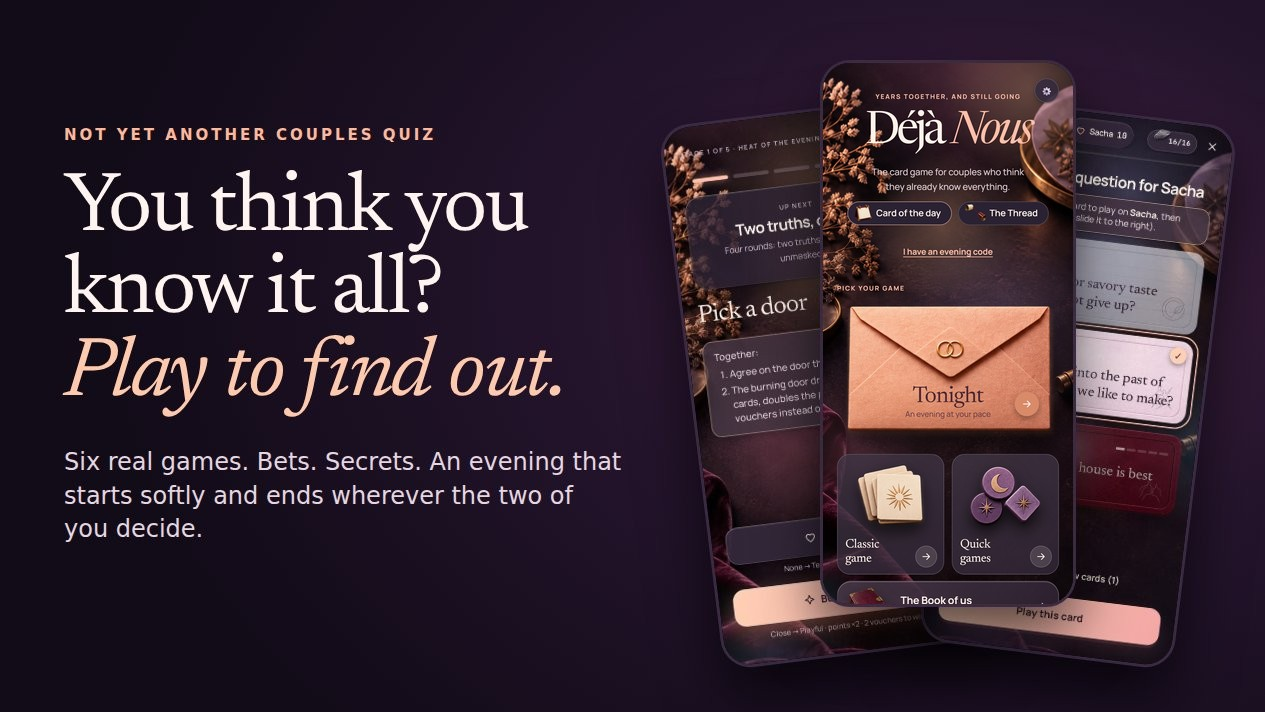
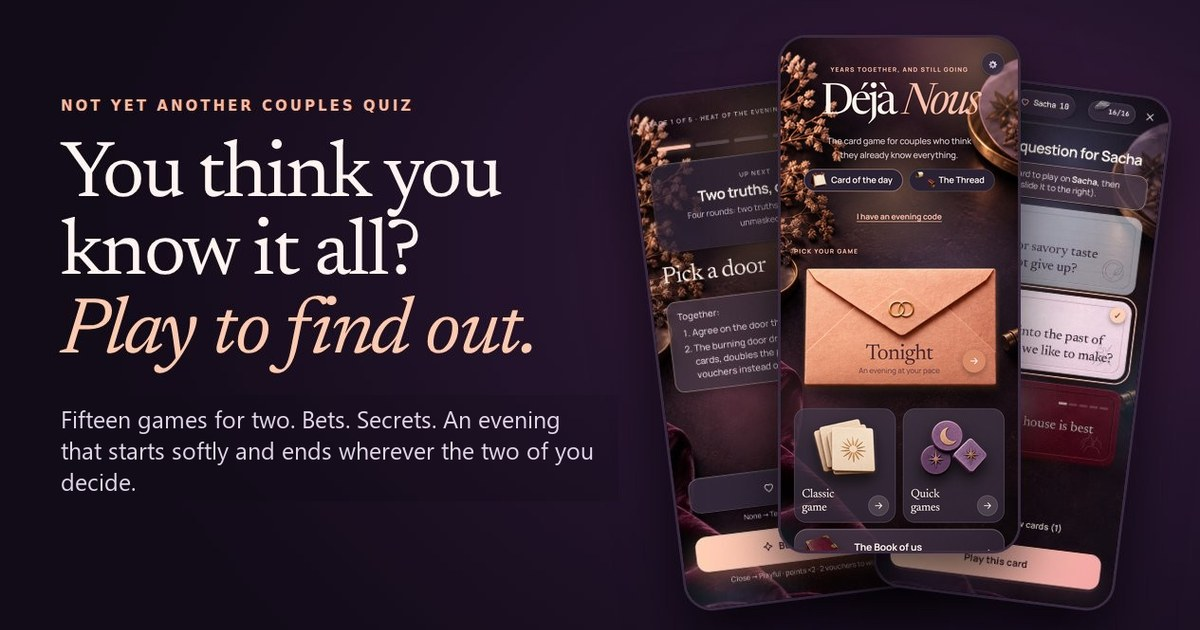
Terms and legal notice: CM2C mediator, VAT not applicable; privacy points confirmed; new 1200x630 share images [skip ci]

diff --git a/docs/privacy.html b/docs/privacy.html
@@ -9,7 +9,7 @@
   <main class="report wrap legal">
     <p class="eyebrow">POLITIQUE DE CONFIDENTIALITÉ</p>
     <h1>Vos réponses<br><em>restent à vous.</em></h1>
-    <p class="legal-meta"><strong>Dernière mise à jour : <span class="ph">[DATE]</span></strong></p>
+    <p class="legal-meta"><strong>Dernière mise à jour : 1<sup>er</sup> novembre 2026</strong></p>
     <p class="report-lede">Déjà Nous est un jeu pour couples (18+). Vos réponses, vos prénoms et votre « Livre de nous » restent sur votre téléphone : nous ne les recevons jamais. Nous traitons seulement ce qu’il faut pour vendre le jeu complet, faire respecter sa licence et vous répondre. Cette page dit quoi, pourquoi, et combien de temps.</p>
 
     <section id="responsable"><h2>Qui est responsable</h2>
@@ -67,7 +67,7 @@
         <dt>But</dt><dd>Conclure et exécuter la vente : livrer le code, vous le renvoyer si vous le perdez (« Retrouver mon code »), traiter un remboursement, une rétractation ou une contestation bancaire.</dd>
         <dt>Base légale</dt><dd>L’exécution du contrat de vente. Ensuite, nos obligations comptables et fiscales.</dd>
         <dt>Données</dt><dd>Adresse e-mail, langue, produit acheté, numéro de la session de paiement et référence du paiement Stripe, code de licence et son identifiant, date de l’achat. Pour un passage depuis l’édition Google Play, si cette offre est proposée : le numéro de commande Google Play, que nous vérifions auprès de Google.</dd>
-        <dt>Durée</dt><dd>10 ans à compter de l’achat <span class="ph">[À CONFIRMER]</span>, la durée de conservation des pièces comptables. La licence n’a pas de date de fin : ces données servent aussi à vous renvoyer votre code pendant cette période.</dd>
+        <dt>Durée</dt><dd>10 ans à compter de l’achat, la durée de conservation des pièces comptables. La licence n’a pas de date de fin : ces données servent aussi à vous renvoyer votre code pendant cette période.</dd>
       </dl>
       <p>La page de paiement est hébergée par Stripe, qui y applique ses propres règles, cookies compris. Stripe traite aussi certaines données pour son propre compte, par exemple contre la fraude, selon sa politique de confidentialité.</p>
     </section>
@@ -82,7 +82,7 @@
         <dt>Données</dt><dd>Pour chaque licence : l’identifiant pseudonyme de chaque téléphone activé (deux au plus) et sa date d’activation, et la date du dernier remplacement de téléphone (un par mois).</dd>
         <dt>Durée</dt><dd>Un téléphone est effacé dès que vous le retirez (« Retirer ») ou le remplacez. Sinon, ses données sont effacées avec celles de la commande. La date du dernier remplacement est effacée après 30 jours.</dd>
       </dl>
-      <p><strong>Codes désactivés.</strong> Quand un code est désactivé (remboursement, contestation bancaire, abus), son identifiant entre dans une liste publique que l’application télécharge au plus toutes les 6 heures. Cet identifiant est un numéro aléatoire de 8 caractères ; la liste ne contient ni e-mail ni autre donnée. Elle est gardée tant que la désactivation doit s’appliquer, et au plus aussi longtemps que les données de la commande <span class="ph">[À CONFIRMER]</span>.</p>
+      <p><strong>Codes désactivés.</strong> Quand un code est désactivé (remboursement, contestation bancaire, abus), son identifiant entre dans une liste publique que l’application télécharge au plus toutes les 6 heures. Cet identifiant est un numéro aléatoire de 8 caractères ; la liste ne contient ni e-mail ni autre donnée. Elle est gardée tant que la désactivation doit s’appliquer, et au plus aussi longtemps que les données de la commande.</p>
       <p><strong>Édition Google Play.</strong> L’achat du jeu complet est géré par Google Play, selon sa propre politique. Pour ouvrir les textes du jeu complet, l’application envoie à notre serveur le jeton d’achat Google Play, et le serveur demande à Google de le confirmer. Nous gardons seulement une empreinte de ce jeton pendant 24 heures, pour ne pas interroger Google à chaque ouverture.</p>
     </section>
 
@@ -98,7 +98,7 @@
         <dt>But</dt><dd>Protéger nos textes contre la copie, faire respecter la licence et défendre nos droits.</dd>
         <dt>Base légale</dt><dd>Notre intérêt légitime à protéger nos œuvres et à lutter contre le piratage, et l’exécution du contrat de licence.</dd>
         <dt>Données</dt><dd>L’identifiant de licence inscrit dans les textes. Nous ne le relions à une commande que lorsqu’un texte diffusé est trouvé.</dd>
-        <dt>Durée</dt><dd>La marque reste dans les textes affichés sur votre téléphone. L’analyse d’un texte diffusé est gardée le temps de la procédure, et jusqu’à la fin d’un éventuel litige <span class="ph">[À CONFIRMER]</span>.</dd>
+        <dt>Durée</dt><dd>La marque reste dans les textes affichés sur votre téléphone. L’analyse d’un texte diffusé est gardée le temps de la procédure, et jusqu’à la fin d’un éventuel litige.</dd>
       </dl>
     </section>
 
@@ -110,7 +110,7 @@
         <dt>Données</dt><dd>Adresse IP ou adresse e-mail, et un nombre de demandes.</dd>
         <dt>Durée</dt><dd>1 heure pour l’adresse IP, 24 heures pour l’adresse e-mail.</dd>
       </dl>
-      <p>Notre serveur n’écrit pas de journal de vos requêtes <span class="ph">[À CONFIRMER]</span>. Cloudflare, qui l’héberge, traite les adresses IP pour acheminer les requêtes et bloquer les attaques, selon sa propre politique.</p>
+      <p>Notre serveur n’écrit pas de journal de vos requêtes. Cloudflare, qui l’héberge, traite les adresses IP pour acheminer les requêtes et bloquer les attaques, selon sa propre politique.</p>
     </section>
 
     <section id="e-mails"><h2>Les e-mails</h2>
@@ -121,7 +121,7 @@
         <dt>But</dt><dd>Livrer le code, répondre à vos questions, réclamations et demandes (rétractation, droits sur vos données).</dd>
         <dt>Base légale</dt><dd>L’exécution du contrat, et notre intérêt légitime à vous répondre.</dd>
         <dt>Données</dt><dd>Votre adresse e-mail, le contenu de nos échanges.</dd>
-        <dt>Durée</dt><dd>3 ans après notre dernier échange <span class="ph">[À CONFIRMER]</span>. Un échange lié à une commande (rétractation, réclamation) est gardé aussi longtemps que la commande.</dd>
+        <dt>Durée</dt><dd>3 ans après notre dernier échange. Un échange lié à une commande (rétractation, réclamation) est gardé aussi longtemps que la commande.</dd>
       </dl>
     </section>
 
@@ -147,7 +147,7 @@
         <li data-shop><strong>GitHub</strong> : téléchargement de l’application, de ses mises à jour et des nouvelles cartes.</li>
         <li><strong>Google</strong> : vente et vérification des achats de l’édition Google Play ; sauvegarde facultative dans votre Google Drive.</li>
       </ul>
-      <p><strong>Transferts hors de l’Union européenne.</strong> Ces prestataires sont établis aux États-Unis ou y traitent des données. Ces transferts sont encadrés par les garanties prévues par le RGPD : le cadre de protection des données UE–États-Unis quand le prestataire y adhère, ou les clauses contractuelles types de la Commission européenne <span class="ph">[À CONFIRMER]</span>. Vous pouvez nous demander lesquelles s’appliquent.</p>
+      <p><strong>Transferts hors de l’Union européenne.</strong> Ces prestataires sont établis aux États-Unis ou y traitent des données. Ces transferts sont encadrés par les garanties prévues par le RGPD : le cadre de protection des données UE–États-Unis quand le prestataire y adhère, ou les clauses contractuelles types de la Commission européenne. Vous pouvez nous demander lesquelles s’appliquent.</p>
       <p>Nous ne communiquons vos données à une autorité que si la loi nous y oblige.</p>
     </section>
 

diff --git a/docs/privacy-en.html b/docs/privacy-en.html
@@ -9,7 +9,7 @@
   <main class="report wrap legal">
     <p class="eyebrow">PRIVACY POLICY</p>
     <h1>Your answers<br><em>stay yours.</em></h1>
-    <p class="legal-meta"><strong>Last updated: <span class="ph">[DATE]</span></strong></p>
+    <p class="legal-meta"><strong>Last updated: November 1, 2026</strong></p>
     <p class="prevails">This is a translation for your convenience. The <a href="privacy.html" lang="fr">French version</a> prevails.</p>
     <p class="report-lede">Déjà Nous is a game for couples (18+). Your answers, your first names and your “Book of us” stay on your phone: we never receive them. We only process what is needed to sell the full game, enforce its license and answer you. This page says what, why, and for how long.</p>
 
@@ -68,7 +68,7 @@
         <dt>Purpose</dt><dd>Concluding and performing the sale: delivering the code, resending it if you lose it (“Find my code”), handling a refund, a withdrawal or a bank dispute.</dd>
         <dt>Legal basis</dt><dd>Performance of the sales contract. Afterwards, our accounting and tax obligations.</dd>
         <dt>Data</dt><dd>E-mail address, language, product bought, payment session number and Stripe payment reference, license code and its identifier, date of purchase. For an upgrade from the Google Play edition, if that offer is available: the Google Play order number, which we check with Google.</dd>
-        <dt>Retention</dt><dd>10 years from the purchase <span class="ph">[À CONFIRMER]</span>, the retention period for accounting records. The license has no end date: this data is also used to resend your code during that period.</dd>
+        <dt>Retention</dt><dd>10 years from the purchase, the retention period for accounting records. The license has no end date: this data is also used to resend your code during that period.</dd>
       </dl>
       <p>The payment page is hosted by Stripe, which applies its own rules there, cookies included. Stripe also processes some data on its own behalf, for example against fraud, under its privacy policy.</p>
     </section>
@@ -83,7 +83,7 @@
         <dt>Data</dt><dd>For each license: the pseudonymous identifier of each activated phone (two at most) and its activation date, and the date of the last phone replacement (one per month).</dd>
         <dt>Retention</dt><dd>A phone is deleted as soon as you remove it (“Remove”) or replace it. Otherwise its data is deleted together with the order data. The date of the last replacement is deleted after 30 days.</dd>
       </dl>
-      <p><strong>Switched-off codes.</strong> When a code is switched off (refund, bank dispute, abuse), its identifier goes into a public list that the app downloads at most every 6 hours. This identifier is a random 8-character number; the list holds no e-mail and no other data. It is kept as long as the switch-off must apply, and at most as long as the order data <span class="ph">[À CONFIRMER]</span>.</p>
+      <p><strong>Switched-off codes.</strong> When a code is switched off (refund, bank dispute, abuse), its identifier goes into a public list that the app downloads at most every 6 hours. This identifier is a random 8-character number; the list holds no e-mail and no other data. It is kept as long as the switch-off must apply, and at most as long as the order data.</p>
       <p><strong>Google Play edition.</strong> Buying the full game is handled by Google Play, under its own policy. To open the texts of the full game, the app sends our server the Google Play purchase token, and the server asks Google to confirm it. We only keep a fingerprint of this token for 24 hours, so as not to ask Google each time the app opens.</p>
     </section>
 
@@ -99,7 +99,7 @@
         <dt>Purpose</dt><dd>Protecting our texts against copying, enforcing the license and defending our rights.</dd>
         <dt>Legal basis</dt><dd>Our legitimate interest in protecting our works and fighting piracy, and performance of the license contract.</dd>
         <dt>Data</dt><dd>The license identifier written into the texts. We only link it to an order when a leaked text is found.</dd>
-        <dt>Retention</dt><dd>The mark stays in the texts shown on your phone. The analysis of a leaked text is kept for the length of the procedure, and until the end of any dispute <span class="ph">[À CONFIRMER]</span>.</dd>
+        <dt>Retention</dt><dd>The mark stays in the texts shown on your phone. The analysis of a leaked text is kept for the length of the procedure, and until the end of any dispute.</dd>
       </dl>
     </section>
 
@@ -111,7 +111,7 @@
         <dt>Data</dt><dd>IP address or e-mail address, and a number of requests.</dd>
         <dt>Retention</dt><dd>1 hour for the IP address, 24 hours for the e-mail address.</dd>
       </dl>
-      <p>Our server writes no log of your requests <span class="ph">[À CONFIRMER]</span>. Cloudflare, which hosts it, processes IP addresses to route requests and block attacks, under its own policy.</p>
+      <p>Our server writes no log of your requests. Cloudflare, which hosts it, processes IP addresses to route requests and block attacks, under its own policy.</p>
     </section>
 
     <section id="e-mails"><h2>E-mails</h2>
@@ -122,7 +122,7 @@
         <dt>Purpose</dt><dd>Delivering the code, answering your questions, complaints and requests (withdrawal, rights over your data).</dd>
         <dt>Legal basis</dt><dd>Performance of the contract, and our legitimate interest in answering you.</dd>
         <dt>Data</dt><dd>Your e-mail address, the content of our exchanges.</dd>
-        <dt>Retention</dt><dd>3 years after our last exchange <span class="ph">[À CONFIRMER]</span>. An exchange about an order (withdrawal, complaint) is kept as long as the order.</dd>
+        <dt>Retention</dt><dd>3 years after our last exchange. An exchange about an order (withdrawal, complaint) is kept as long as the order.</dd>
       </dl>
     </section>
 
@@ -148,7 +148,7 @@
         <li data-shop><strong>GitHub</strong>: download of the app, its updates and new cards.</li>
         <li><strong>Google</strong>: sale and verification of purchases of the Google Play edition; optional backup in your Google Drive.</li>
       </ul>
-      <p><strong>Transfers outside the European Union.</strong> These providers are established in the United States or process data there. These transfers are covered by the safeguards provided for by the GDPR: the EU–US Data Privacy Framework when the provider has joined it, or the European Commission’s standard contractual clauses <span class="ph">[À CONFIRMER]</span>. You can ask us which ones apply.</p>
+      <p><strong>Transfers outside the European Union.</strong> These providers are established in the United States or process data there. These transfers are covered by the safeguards provided for by the GDPR: the EU–US Data Privacy Framework when the provider has joined it, or the European Commission’s standard contractual clauses. You can ask us which ones apply.</p>
       <p>We only disclose your data to an authority if the law requires us to.</p>
     </section>
 

diff --git a/docs/unleashed.html b/docs/unleashed.html
@@ -4,7 +4,7 @@
 <title>Déjà Nous Unleashed — la version sans filtre</title>
 <link rel="canonical" href="https://dejanous.love/unleashed">
 <link rel="alternate" hreflang="fr" href="https://dejanous.love/unleashed"><link rel="alternate" hreflang="en" href="https://dejanous.love/unleashed-en">
-<meta property="og:type" content="website"><meta property="og:site_name" content="Déjà Nous"><meta property="og:locale" content="fr_FR"><meta property="og:title" content="Déjà Nous Unleashed — la version sans filtre"><meta property="og:description" content="Même jeu, mêmes modes, toutes les cartes : la version intégrale de Déjà Nous, pour deux adultes (18+)."><meta property="og:url" content="https://dejanous.love/unleashed"><meta property="og:image" content="https://dejanous.love/assets/og.jpg?v=20261029"><meta property="og:image:width" content="1265"><meta property="og:image:height" content="712"><meta property="og:image:alt" content="Déjà Nous, le jeu de cartes des couples, sur trois écrans de téléphone"><meta name="twitter:card" content="summary_large_image">
+<meta property="og:type" content="website"><meta property="og:site_name" content="Déjà Nous"><meta property="og:locale" content="fr_FR"><meta property="og:title" content="Déjà Nous Unleashed — la version sans filtre"><meta property="og:description" content="Même jeu, mêmes modes, toutes les cartes : la version intégrale de Déjà Nous, pour deux adultes (18+)."><meta property="og:url" content="https://dejanous.love/unleashed"><meta property="og:image" content="https://dejanous.love/assets/og.jpg?v=20261029"><meta property="og:image:width" content="1200"><meta property="og:image:height" content="630"><meta property="og:image:alt" content="Déjà Nous, le jeu de cartes des couples, sur trois écrans de téléphone"><meta name="twitter:card" content="summary_large_image">
 <link rel="icon" href="assets/icon-48.png" type="image/png"><link rel="stylesheet" href="style.css"><link rel="stylesheet" href="campaign.css"><link rel="stylesheet" href="impact.css?v=20261023"><link rel="stylesheet" href="unleashed.css?v=20261031"><link rel="stylesheet" href="editions.css?v=20261030b"><script src="back.js" defer></script><script type="module" src="app-return.js"></script><script type="module" src="track.js?v=20261030b"></script><link rel="modulepreload" href="hit.js"><link rel="modulepreload" href="store-config.js"><link rel="modulepreload" href="unleashed.js"><link rel="stylesheet" href="phone.css?v=20261030m"></head>
 <body>
   <header class="topbar"><div class="topbar-inner wrap"><a class="brand" href="index.html" aria-label="Déjà Nous"><img src="assets/icon-36.png" srcset="assets/icon-72.png 2x, assets/icon-108.png 3x" alt="" width="36" height="36"><span>Déjà <em>Nous</em></span></a><nav class="sub-nav" aria-label="Navigation"><a href="index.html">← Retour<span class="more"> au site</span></a></nav><div class="header-actions"><div class="language-switch" aria-label="Langue"><a href="unleashed.html" lang="fr" aria-current="page">FR</a><a href="unleashed-en.html" lang="en">EN</a></div></div></div></header>

diff --git a/docs/unleashed-en.html b/docs/unleashed-en.html
@@ -4,7 +4,7 @@
 <title>Déjà Nous Unleashed — the unfiltered version</title>
 <link rel="canonical" href="https://dejanous.love/unleashed-en">
 <link rel="alternate" hreflang="fr" href="https://dejanous.love/unleashed"><link rel="alternate" hreflang="en" href="https://dejanous.love/unleashed-en">
-<meta property="og:type" content="website"><meta property="og:site_name" content="Déjà Nous"><meta property="og:locale" content="en_US"><meta property="og:title" content="Déjà Nous Unleashed — the unfiltered version"><meta property="og:description" content="Same game, same modes, every card: the complete version of Déjà Nous, for two adults (18+)."><meta property="og:url" content="https://dejanous.love/unleashed-en"><meta property="og:image" content="https://dejanous.love/assets/og-en.jpg?v=20261029"><meta property="og:image:width" content="1265"><meta property="og:image:height" content="712"><meta property="og:image:alt" content="Déjà Nous, the card game for couples, on three phone screens"><meta name="twitter:card" content="summary_large_image">
+<meta property="og:type" content="website"><meta property="og:site_name" content="Déjà Nous"><meta property="og:locale" content="en_US"><meta property="og:title" content="Déjà Nous Unleashed — the unfiltered version"><meta property="og:description" content="Same game, same modes, every card: the complete version of Déjà Nous, for two adults (18+)."><meta property="og:url" content="https://dejanous.love/unleashed-en"><meta property="og:image" content="https://dejanous.love/assets/og-en.jpg?v=20261029"><meta property="og:image:width" content="1200"><meta property="og:image:height" content="630"><meta property="og:image:alt" content="Déjà Nous, the card game for couples, on three phone screens"><meta name="twitter:card" content="summary_large_image">
 <link rel="icon" href="assets/icon-48.png" type="image/png"><link rel="stylesheet" href="style.css"><link rel="stylesheet" href="campaign.css"><link rel="stylesheet" href="impact.css?v=20261023"><link rel="stylesheet" href="unleashed.css?v=20261031"><link rel="stylesheet" href="editions.css?v=20261030b"><script src="back.js" defer></script><script type="module" src="app-return.js"></script><script type="module" src="track.js?v=20261030b"></script><link rel="modulepreload" href="hit.js"><link rel="modulepreload" href="store-config.js"><link rel="modulepreload" href="unleashed.js"><link rel="stylesheet" href="phone.css?v=20261030m"></head>
 <body>
   <header class="topbar"><div class="topbar-inner wrap"><a class="brand" href="en.html" aria-label="Déjà Nous"><img src="assets/icon-36.png" srcset="assets/icon-72.png 2x, assets/icon-108.png 3x" alt="" width="36" height="36"><span>Déjà <em>Nous</em></span></a><nav class="sub-nav" aria-label="Navigation"><a href="en.html">← Back<span class="more"> to the site</span></a></nav><div class="header-actions"><div class="language-switch" aria-label="Language"><a href="unleashed.html" lang="fr">FR</a><a href="unleashed-en.html" lang="en" aria-current="page">EN</a></div></div></div></header>

diff --git a/docs/cadeau.html b/docs/cadeau.html
@@ -4,7 +4,7 @@
 <title>Un cadeau pour vous — Déjà Nous</title>
 <link rel="alternate" hreflang="fr" href="https://dejanous.love/cadeau"><link rel="alternate" hreflang="en" href="https://dejanous.love/cadeau-en">
 <meta name="description" content="Quelqu’un pense à vous. Ouvrez votre cadeau : un moment rien qu’à deux.">
-<meta property="og:type" content="website"><meta property="og:site_name" content="Déjà Nous"><meta property="og:locale" content="fr_FR"><meta property="og:title" content="Un cadeau pour vous — Déjà Nous"><meta property="og:description" content="Quelqu’un pense à vous. Ouvrez votre cadeau : un moment rien qu’à deux."><meta property="og:image" content="https://dejanous.love/assets/og.jpg?v=20261029"><meta property="og:image:width" content="1265"><meta property="og:image:height" content="712"><meta property="og:image:alt" content="Déjà Nous, le jeu de cartes des couples, sur trois écrans de téléphone"><meta name="twitter:card" content="summary_large_image">
+<meta property="og:type" content="website"><meta property="og:site_name" content="Déjà Nous"><meta property="og:locale" content="fr_FR"><meta property="og:title" content="Un cadeau pour vous — Déjà Nous"><meta property="og:description" content="Quelqu’un pense à vous. Ouvrez votre cadeau : un moment rien qu’à deux."><meta property="og:image" content="https://dejanous.love/assets/og.jpg?v=20261029"><meta property="og:image:width" content="1200"><meta property="og:image:height" content="630"><meta property="og:image:alt" content="Déjà Nous, le jeu de cartes des couples, sur trois écrans de téléphone"><meta name="twitter:card" content="summary_large_image">
 <link rel="icon" href="assets/icon-48.png" type="image/png"><link rel="stylesheet" href="style.css"><link rel="stylesheet" href="campaign.css"><link rel="stylesheet" href="impact.css?v=20261023"><link rel="stylesheet" href="unleashed.css?v=20261030d"><link rel="stylesheet" href="gift.css?v=20261022"><script src="back.js" defer></script><link rel="stylesheet" href="phone.css?v=20261030m"></head>
 <body>
   <header class="topbar"><div class="topbar-inner wrap"><a class="brand" href="index.html" aria-label="Déjà Nous"><img src="assets/icon-36.png" srcset="assets/icon-72.png 2x, assets/icon-108.png 3x" alt="" width="36" height="36"><span>Déjà <em>Nous</em></span></a><nav class="sub-nav" aria-label="Navigation"><a href="index.html">← Retour</a></nav><div class="header-actions"><div class="language-switch" aria-label="Langue"><a href="cadeau.html" lang="fr" aria-current="page" data-lang>FR</a><a href="cadeau-en.html" lang="en" data-lang>EN</a></div></div></div></header>

diff --git a/docs/cadeau-en.html b/docs/cadeau-en.html
@@ -4,7 +4,7 @@
 <title>A gift for you — Déjà Nous</title>
 <link rel="alternate" hreflang="fr" href="https://dejanous.love/cadeau"><link rel="alternate" hreflang="en" href="https://dejanous.love/cadeau-en">
 <meta name="description" content="Someone is thinking of you. Open your gift: a moment just for the two of you.">
-<meta property="og:type" content="website"><meta property="og:site_name" content="Déjà Nous"><meta property="og:locale" content="en_US"><meta property="og:title" content="A gift for you — Déjà Nous"><meta property="og:description" content="Someone is thinking of you. Open your gift: a moment just for the two of you."><meta property="og:image" content="https://dejanous.love/assets/og-en.jpg?v=20261029"><meta property="og:image:width" content="1265"><meta property="og:image:height" content="712"><meta property="og:image:alt" content="Déjà Nous, the card game for couples, on three phone screens"><meta name="twitter:card" content="summary_large_image">
+<meta property="og:type" content="website"><meta property="og:site_name" content="Déjà Nous"><meta property="og:locale" content="en_US"><meta property="og:title" content="A gift for you — Déjà Nous"><meta property="og:description" content="Someone is thinking of you. Open your gift: a moment just for the two of you."><meta property="og:image" content="https://dejanous.love/assets/og-en.jpg?v=20261029"><meta property="og:image:width" content="1200"><meta property="og:image:height" content="630"><meta property="og:image:alt" content="Déjà Nous, the card game for couples, on three phone screens"><meta name="twitter:card" content="summary_large_image">
 <link rel="icon" href="assets/icon-48.png" type="image/png"><link rel="stylesheet" href="style.css"><link rel="stylesheet" href="campaign.css"><link rel="stylesheet" href="impact.css?v=20261023"><link rel="stylesheet" href="unleashed.css?v=20261030d"><link rel="stylesheet" href="gift.css?v=20261022"><script src="back.js" defer></script><link rel="stylesheet" href="phone.css?v=20261030m"></head>
 <body>
   <header class="topbar"><div class="topbar-inner wrap"><a class="brand" href="en.html" aria-label="Déjà Nous"><img src="assets/icon-36.png" srcset="assets/icon-72.png 2x, assets/icon-108.png 3x" alt="" width="36" height="36"><span>Déjà <em>Nous</em></span></a><nav class="sub-nav" aria-label="Navigation"><a href="en.html">← Back</a></nav><div class="header-actions"><div class="language-switch" aria-label="Langue"><a href="cadeau.html" lang="fr" data-lang>FR</a><a href="cadeau-en.html" lang="en" aria-current="page" data-lang>EN</a></div></div></div></header>

diff --git a/docs/index.html b/docs/index.html
@@ -7,7 +7,7 @@
   <title>Déjà Nous — Votre couple mérite mieux qu’un quiz</title>
   <link rel="canonical" href="https://dejanous.love/">
   <link rel="alternate" hreflang="fr" href="https://dejanous.love/"><link rel="alternate" hreflang="en" href="https://dejanous.love/en">
-  <meta property="og:type" content="website"><meta property="og:site_name" content="Déjà Nous"><meta property="og:locale" content="fr_FR"><meta property="og:title" content="Déjà Nous — Votre couple mérite mieux qu’un quiz"><meta property="og:description" content="Quinze vrais jeux. Des paris. Des secrets. Une soirée qui se joue à deux."><meta property="og:url" content="https://dejanous.love/"><meta property="og:image" content="https://dejanous.love/assets/og.jpg?v=20261029"><meta property="og:image:width" content="1265"><meta property="og:image:height" content="712"><meta property="og:image:alt" content="Déjà Nous, le jeu de cartes des couples, sur trois écrans de téléphone"><meta name="twitter:card" content="summary_large_image">
+  <meta property="og:type" content="website"><meta property="og:site_name" content="Déjà Nous"><meta property="og:locale" content="fr_FR"><meta property="og:title" content="Déjà Nous — Votre couple mérite mieux qu’un quiz"><meta property="og:description" content="Quinze vrais jeux. Des paris. Des secrets. Une soirée qui se joue à deux."><meta property="og:url" content="https://dejanous.love/"><meta property="og:image" content="https://dejanous.love/assets/og.jpg?v=20261029"><meta property="og:image:width" content="1200"><meta property="og:image:height" content="630"><meta property="og:image:alt" content="Déjà Nous, le jeu de cartes des couples, sur trois écrans de téléphone"><meta name="twitter:card" content="summary_large_image">
   <link rel="icon" href="assets/icon-48.png" type="image/png"><link rel="stylesheet" href="style.css"><link rel="stylesheet" href="campaign.css"><link rel="stylesheet" href="impact.css?v=20261023"><script type="module" src="app.js?v=20261030"></script>
 <script src="back.js" defer></script><link rel="stylesheet" href="conversion.css?v=20261031"><link rel="stylesheet" href="editions.css?v=20261030b"><script type="module" src="evening.js?v=20261024"></script><script type="module" src="track.js?v=20261030b"></script><script type="module" src="install.js?v=20261031"></script><link rel="modulepreload" href="evening-code.js"><link rel="modulepreload" href="hit.js"><link rel="modulepreload" href="store-config.js"><link rel="stylesheet" href="phone.css?v=20261030m"></head>
 <body><div class="site-shell">

diff --git a/docs/en.html b/docs/en.html
@@ -7,7 +7,7 @@
   <title>Déjà Nous — Your relationship deserves more than a quiz</title>
   <link rel="canonical" href="https://dejanous.love/en">
   <link rel="alternate" hreflang="fr" href="https://dejanous.love/"><link rel="alternate" hreflang="en" href="https://dejanous.love/en">
-  <meta property="og:type" content="website"><meta property="og:site_name" content="Déjà Nous"><meta property="og:locale" content="en_US"><meta property="og:title" content="Déjà Nous — Your relationship deserves more than a quiz"><meta property="og:description" content="Fifteen real games. Bets. Secrets. A whole night for two."><meta property="og:url" content="https://dejanous.love/en"><meta property="og:image" content="https://dejanous.love/assets/og-en.jpg?v=20261029"><meta property="og:image:width" content="1265"><meta property="og:image:height" content="712"><meta property="og:image:alt" content="Déjà Nous, the card game for couples, on three phone screens"><meta name="twitter:card" content="summary_large_image">
+  <meta property="og:type" content="website"><meta property="og:site_name" content="Déjà Nous"><meta property="og:locale" content="en_US"><meta property="og:title" content="Déjà Nous — Your relationship deserves more than a quiz"><meta property="og:description" content="Fifteen real games. Bets. Secrets. A whole night for two."><meta property="og:url" content="https://dejanous.love/en"><meta property="og:image" content="https://dejanous.love/assets/og-en.jpg?v=20261029"><meta property="og:image:width" content="1200"><meta property="og:image:height" content="630"><meta property="og:image:alt" content="Déjà Nous, the card game for couples, on three phone screens"><meta name="twitter:card" content="summary_large_image">
   <link rel="icon" href="assets/icon-48.png" type="image/png"><link rel="stylesheet" href="style.css"><link rel="stylesheet" href="campaign.css"><link rel="stylesheet" href="impact.css?v=20261023"><script type="module" src="app.js?v=20261030"></script>
 <script src="back.js" defer></script><link rel="stylesheet" href="conversion.css?v=20261031"><link rel="stylesheet" href="editions.css?v=20261030b"><script type="module" src="evening.js?v=20261024"></script><script type="module" src="track.js?v=20261030b"></script><script type="module" src="install.js?v=20261031"></script><link rel="modulepreload" href="evening-code.js"><link rel="modulepreload" href="hit.js"><link rel="modulepreload" href="store-config.js"><link rel="stylesheet" href="phone.css?v=20261030m"></head>
 <body><div class="site-shell">

diff --git a/docs/cgv.html b/docs/cgv.html
@@ -48,7 +48,7 @@
         <li>adresse : 9 chemin Commanderie Saint-Jean-de-Malte, 13080 Aix-en-Provence, France ;</li>
         <li>e-mail : <a href="mailto:contact@dejanous.love">contact@dejanous.love</a> ;</li>
         <li>téléphone : 09 67 21 36 39 ;</li>
-        <li><span class="ph">[MENTION TVA]</span>.</li>
+        <li>TVA non applicable, art. 293 B du CGI.</li>
       </ul>
       <p>Dans ces conditions, « nous » désigne le vendeur. « Vous » désigne la personne qui achète.</p>
     </section>
@@ -93,7 +93,7 @@
 
     <section id="article-5"><h2><span class="art-n">Article 5</span>Prix</h2>
       <ol>
-        <li>Le jeu complet coûte <strong>34,90 € TTC</strong>, payé <strong>une seule fois</strong>. Il n’y a pas d’abonnement. <span class="ph">[MENTION TVA]</span>.</li>
+        <li>Le jeu complet coûte <strong>34,90 €</strong>, payé <strong>une seule fois</strong>. Il n’y a pas d’abonnement. TVA non applicable, art. 293 B du CGI.</li>
         <li>Le prix couvre les deux téléphones. Il n’y a aucun frais de livraison.</li>
         <li>Le prix applicable est celui affiché au moment de votre commande.</li>
         <li>Nous pouvons changer le prix à l’avenir. Un changement ne touche pas une commande déjà payée.</li>
@@ -291,8 +291,11 @@
       <ol>
         <li>En cas de litige, adressez d’abord une réclamation écrite à notre service client (article 19).</li>
         <li>Si la réponse ne vous satisfait pas, ou sans réponse dans un délai de deux mois, vous pouvez saisir gratuitement le médiateur de la consommation (article L612-1 du Code de la consommation) :
-          <p><span class="ph">[MÉDIATEUR : nom, adresse postale, site internet]</span></p>
+          <div class="legal-box">
+            <p>CM2C, Centre de la Médiation de la Consommation de Conciliateurs de Justice<br>49 rue de Ponthieu, 75008 Paris, France<br>Site internet : <a href="https://www.cm2c.net" target="_blank" rel="noopener">https://www.cm2c.net</a><br>Formulaire en ligne : <a href="https://www.cm2c.net/declarer-un-litige.php" target="_blank" rel="noopener">https://www.cm2c.net/declarer-un-litige.php</a></p>
+          </div>
         </li>
+        <li>Vous pouvez le saisir en ligne, avec son formulaire, ou par courrier à son adresse.</li>
         <li>Vous devez saisir le médiateur dans l’année qui suit votre réclamation écrite.</li>
         <li>Le recours au médiateur est facultatif. Vous pouvez toujours saisir un tribunal.</li>
       </ol>

diff --git a/docs/cgv-en.html b/docs/cgv-en.html
@@ -49,7 +49,7 @@
         <li>address: 9 chemin Commanderie Saint-Jean-de-Malte, 13080 Aix-en-Provence, France;</li>
         <li>e-mail: <a href="mailto:contact@dejanous.love">contact@dejanous.love</a>;</li>
         <li>phone: +33 9 67 21 36 39;</li>
-        <li><span class="ph">[MENTION TVA]</span>.</li>
+        <li>VAT not applicable, article 293 B of the French General Tax Code (CGI).</li>
       </ul>
       <p>In these terms, “we” means the seller. “You” means the buyer.</p>
     </section>
@@ -94,7 +94,7 @@
 
     <section id="article-5"><h2><span class="art-n">Article 5</span>Price</h2>
       <ol>
-        <li>The full game costs <strong>€34.90 including all taxes</strong>, paid <strong>once</strong>. There is no subscription. <span class="ph">[MENTION TVA]</span>.</li>
+        <li>The full game costs <strong>€34.90</strong>, paid <strong>once</strong>. There is no subscription. VAT not applicable, article 293 B of the French General Tax Code (CGI).</li>
         <li>The price covers both phones. There is no delivery charge.</li>
         <li>The applicable price is the one shown at the time of your order.</li>
         <li>We may change the price in the future. A change does not affect an order already paid.</li>
@@ -292,8 +292,11 @@
       <ol>
         <li>In case of a dispute, first send a written complaint to our customer service (article 19).</li>
         <li>If the answer does not satisfy you, or if you have no answer within two months, you may refer the matter free of charge to the consumer mediator (article L612-1 of the French Consumer Code):
-          <p><span class="ph">[MÉDIATEUR : nom, adresse postale, site internet]</span></p>
+          <div class="legal-box">
+            <p>CM2C, Centre de la Médiation de la Consommation de Conciliateurs de Justice<br>49 rue de Ponthieu, 75008 Paris, France<br>Website: <a href="https://www.cm2c.net" target="_blank" rel="noopener">https://www.cm2c.net</a><br>Online form: <a href="https://www.cm2c.net/declarer-un-litige.php" target="_blank" rel="noopener">https://www.cm2c.net/declarer-un-litige.php</a></p>
+          </div>
         </li>
+        <li>You can file online, with its form, or by mail to its address.</li>
         <li>You must refer the matter to the mediator within one year of your written complaint.</li>
         <li>Using the mediator is optional. You can always go to court.</li>
       </ol>

diff --git a/docs/fil.html b/docs/fil.html
@@ -2,7 +2,7 @@
 <html lang="fr">
 <head><meta charset="utf-8"><meta name="viewport" content="width=device-width, initial-scale=1"><meta name="theme-color" content="#191020"><meta name="robots" content="noindex"><meta name="referrer" content="no-referrer">
 <title>Le Fil — Déjà Nous</title>
-<meta property="og:type" content="website"><meta property="og:site_name" content="Déjà Nous"><meta property="og:locale" content="fr_FR"><meta property="og:locale:alternate" content="en_US"><meta property="og:title" content="Le Fil — Déjà Nous"><meta property="og:description" content="Une question du jour t’attend : réponds dans l’appli Déjà Nous. A question of the day is waiting for you in the Déjà Nous app."><meta property="og:image" content="https://dejanous.love/assets/og.jpg?v=20261029"><meta property="og:image:width" content="1265"><meta property="og:image:height" content="712"><meta property="og:image:alt" content="Déjà Nous, le jeu de cartes des couples, sur trois écrans de téléphone"><meta name="twitter:card" content="summary_large_image">
+<meta property="og:type" content="website"><meta property="og:site_name" content="Déjà Nous"><meta property="og:locale" content="fr_FR"><meta property="og:locale:alternate" content="en_US"><meta property="og:title" content="Le Fil — Déjà Nous"><meta property="og:description" content="Une question du jour t’attend : réponds dans l’appli Déjà Nous. A question of the day is waiting for you in the Déjà Nous app."><meta property="og:image" content="https://dejanous.love/assets/og.jpg?v=20261029"><meta property="og:image:width" content="1200"><meta property="og:image:height" content="630"><meta property="og:image:alt" content="Déjà Nous, le jeu de cartes des couples, sur trois écrans de téléphone"><meta name="twitter:card" content="summary_large_image">
 <meta name="description" content="Une question du jour, envoyée par ton ou ta partenaire : réponds dans l’appli Déjà Nous.">
 <link rel="icon" href="assets/icon-48.png" type="image/png"><link rel="stylesheet" href="style.css"><link rel="stylesheet" href="campaign.css"><link rel="stylesheet" href="unleashed.css?v=20261030d"><link rel="stylesheet" href="fil.css?v=20261020"><link rel="stylesheet" href="phone.css?v=20261030m"></head>
 <body>

diff --git a/docs/mentions-legales.html b/docs/mentions-legales.html
@@ -19,7 +19,7 @@
         <li>adresse : 9 chemin Commanderie Saint-Jean-de-Malte, 13080 Aix-en-Provence, France ;</li>
         <li>e-mail : <a href="mailto:contact@dejanous.love">contact@dejanous.love</a> ;</li>
         <li>téléphone : 09 67 21 36 39 ;</li>
-        <li><span class="ph">[MENTION TVA]</span>.</li>
+        <li>TVA non applicable, art. 293 B du CGI.</li>
       </ul>
     </section>
 
@@ -83,7 +83,10 @@
 
     <section id="mediation"><h2><span class="art-n">10</span>Médiation de la consommation</h2>
       <p>En cas de litige lié à un achat, et après une réclamation écrite auprès de l’éditeur, vous pouvez saisir gratuitement le médiateur de la consommation :</p>
-      <p><span class="ph">[MÉDIATEUR : nom, adresse postale, site internet]</span></p>
+      <div class="legal-box">
+        <p>CM2C, Centre de la Médiation de la Consommation de Conciliateurs de Justice<br>49 rue de Ponthieu, 75008 Paris, France<br>Site internet : <a href="https://www.cm2c.net" target="_blank" rel="noopener">https://www.cm2c.net</a><br>Formulaire en ligne : <a href="https://www.cm2c.net/declarer-un-litige.php" target="_blank" rel="noopener">https://www.cm2c.net/declarer-un-litige.php</a></p>
+      </div>
+      <p>Vous pouvez le saisir en ligne, avec son formulaire, ou par courrier à son adresse.</p>
     </section>
 
     <section id="signaler"><h2><span class="art-n">11</span>Signaler un contenu ou une copie illicite</h2>
